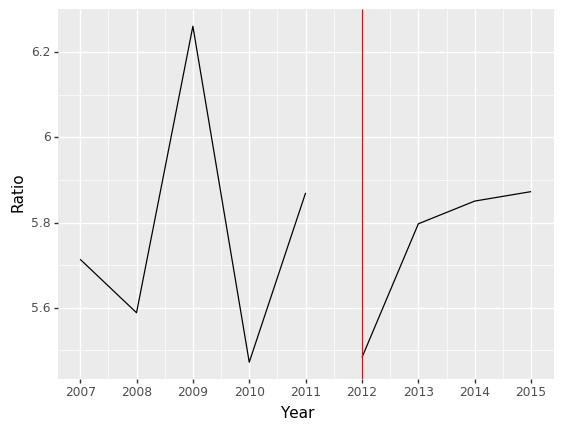
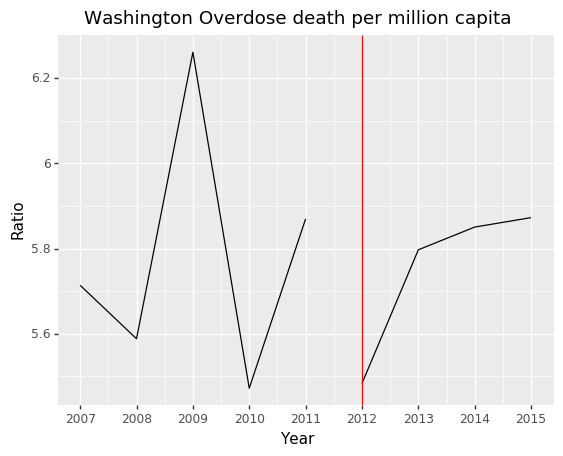
Added Florida overdose death per capita graph

diff --git a/20_intermediate_files/DrugPop_plot.py b/20_intermediate_files/DrugPop_plot.py
@@ -1,0 +1,49 @@
+# Import libraries
+import pandas as pd
+import numpy as np
+from plotnine import *
+
+# Get a general sense of the Florida data.
+fl = pd.read_csv('FLOpioidData.csv')
+fl.sample(10)
+fl['TRANSACTION_MONTH'].value_counts()
+fl['TRANSACTION_YEAR'].value_counts()
+
+# Create a new column filled with int value 1,
+# so the sum of this column represents
+# total number of transaction after aggregation.
+fl['tocount'] = 1
+fl.head()
+
+# Get the total transaction numbers for each individual year.
+fl_aggr = fl.groupby(['TRANSACTION_YEAR', 'State Population'], as_index=False).sum()
+fl_aggr.drop(columns=['TRANSACTION_MONTH'], inplace=True)
+fl_aggr
+
+# Create a column representing drug per capita.
+fl_aggr['Drug_Per_Capita'] = fl_aggr['BUYER_MME'] / fl_aggr['State Population']
+fl_aggr
+# To make trend more obvious, try multiply Drug_Per_Capita by 10.
+fl_aggr['Drug_Per_Capita'] = fl_aggr['Drug_Per_Capita'] * 10
+fl_aggr
+
+bef = range(2006, 2010)
+aft = range(2010, 2013)
+before_policy = fl_aggr[fl_aggr['TRANSACTION_YEAR'].isin(bef)]
+after_policy = fl_aggr[fl_aggr['TRANSACTION_YEAR'].isin(aft)]
+
+fl_plot = (ggplot() +
+    geom_line(before_policy, aes(x='TRANSACTION_YEAR', y='Drug_Per_Capita')) +
+    geom_line(after_policy, aes(x='TRANSACTION_YEAR', y='Drug_Per_Capita')) +
+    scale_x_continuous(breaks = range(2005, 2013)) +
+    ggtitle("Florida Drug Dosage Per Capita") +
+    geom_vline(xintercept=2010, colour="red"))
+print(fl_plot)
+fl_plot.save("fl_Drug_Pop.png")
+
+
+# Get a general sense of the Washington data.
+wa = pd.read_csv('WAOpioidData.csv')
+wa.sample(10)
+wa['TRANSACTION_MONTH'].value_counts()
+wa['TRANSACTION_YEAR'].value_counts()

diff --git a/20_intermediate_files/MortPop_plot.py b/20_intermediate_files/MortPop_plot.py
@@ -26,6 +26,7 @@ before_policy_aggr['Ratio'] = before_policy_aggr['Deaths'] * 1000000 / before_po
 before_policy_aggr.head()
 after_policy_aggr = after_policy.groupby('Year', as_index = False).sum()
 # Add a column of death to state population ration for plotting purposes.
+# To make the trend more obvious, multiply the ratio by one million.
 after_policy_aggr['Ratio'] = after_policy_aggr['Deaths'] * 1000000 / after_policy_aggr['State Population']
 after_policy_aggr
 
@@ -34,6 +35,7 @@ fl_plot = (ggplot() +
     geom_line(before_policy_aggr, aes(x='Year', y='Ratio')) +
     geom_line(after_policy_aggr, aes(x='Year', y='Ratio')) +
     scale_x_continuous(breaks = range(2005, 2016)) +
+    ggtitle("Florida Overdose death per million capita") +
     geom_vline(xintercept=2010, colour="red"))
 print(fl_plot)
 fl_plot.save("fl_Mort_Pop.png")
@@ -72,6 +74,7 @@ wa_plot = (ggplot() +
     geom_line(wa_before_policy_aggr, aes(x='Year', y='Ratio')) +
     geom_line(wa_after_policy_aggr, aes(x='Year', y='Ratio')) +
     scale_x_continuous(breaks = range(2007, 2018)) +
+    ggtitle("Washington Overdose death per million capita") +
     geom_vline(xintercept=2012, colour="red"))
 print(wa_plot)
 wa_plot.save("wa_Mort_Pop.png")
@@ -111,6 +114,7 @@ tx_plot = (ggplot() +
     geom_line(tx_before_policy_aggr, aes(x='Year', y='Ratio')) +
     geom_line(tx_after_policy_aggr, aes(x='Year', y='Ratio')) +
     scale_x_continuous(breaks = range(2003, 2012)) +
+    ggtitle("Texas Overdose death per million capita") +
     geom_vline(xintercept=2007, colour="red") )
 print(tx_plot)
 tx_plot.save("tx_Mort_Pop.png")
